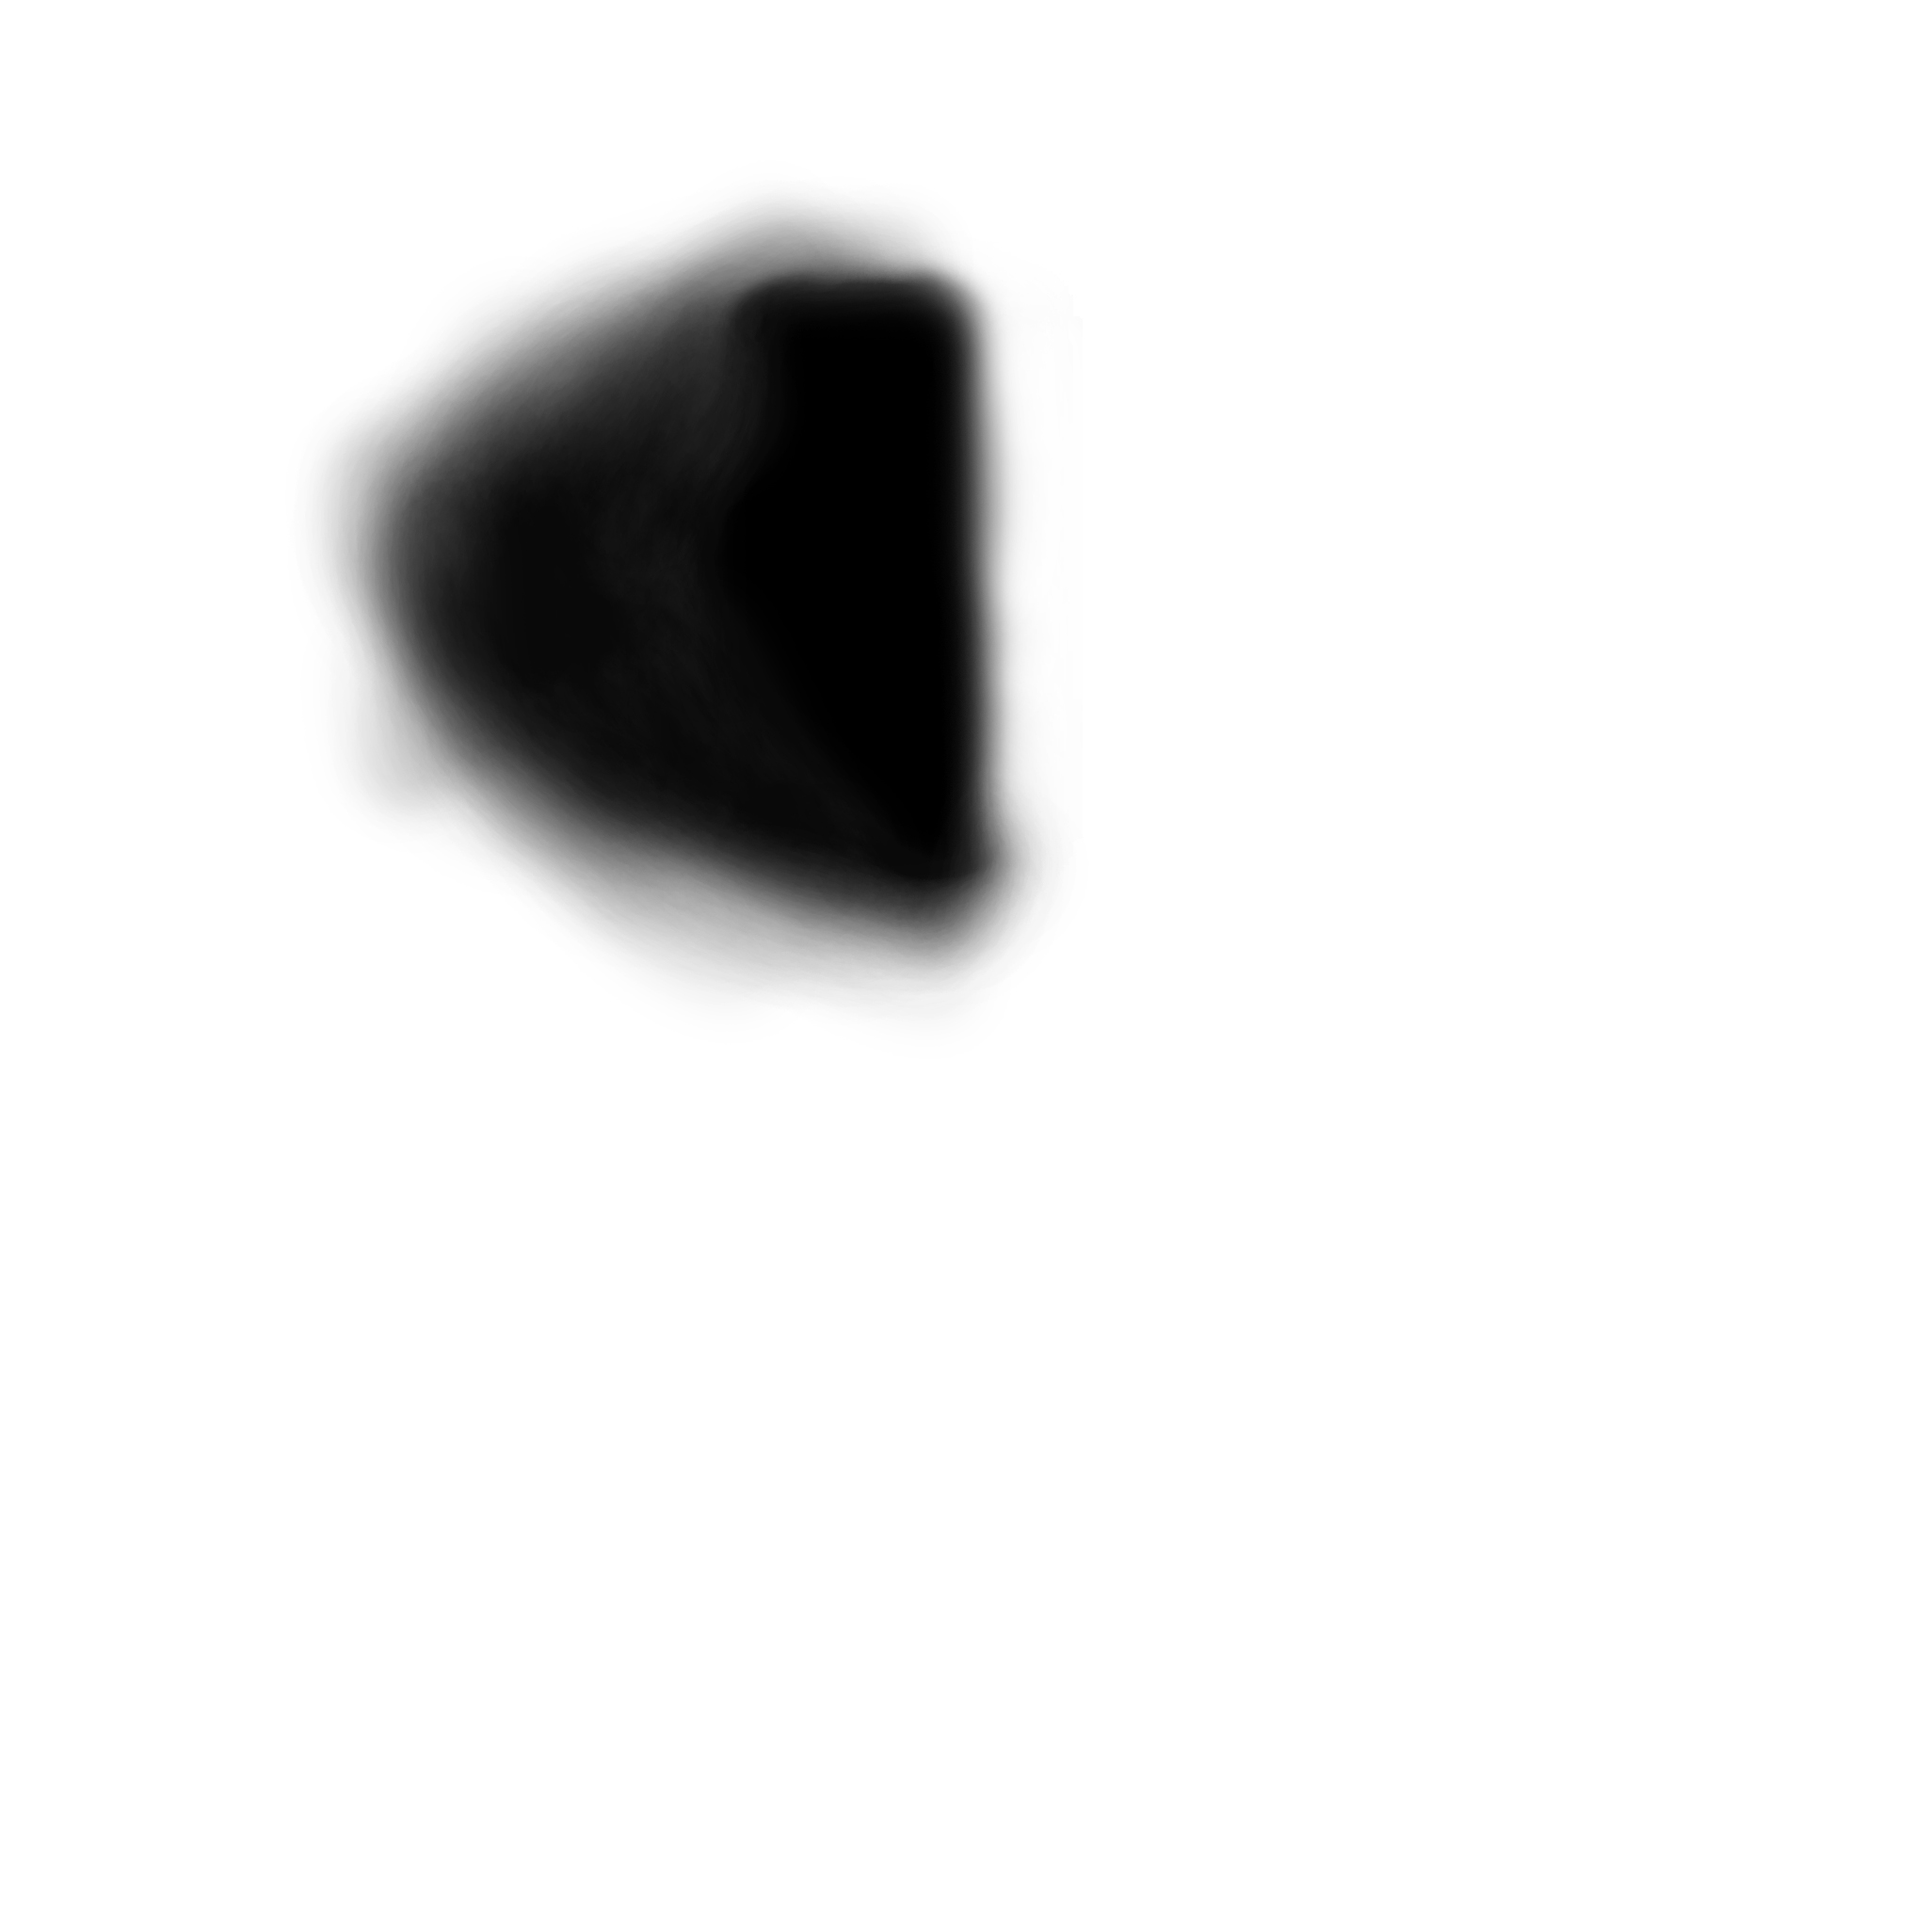
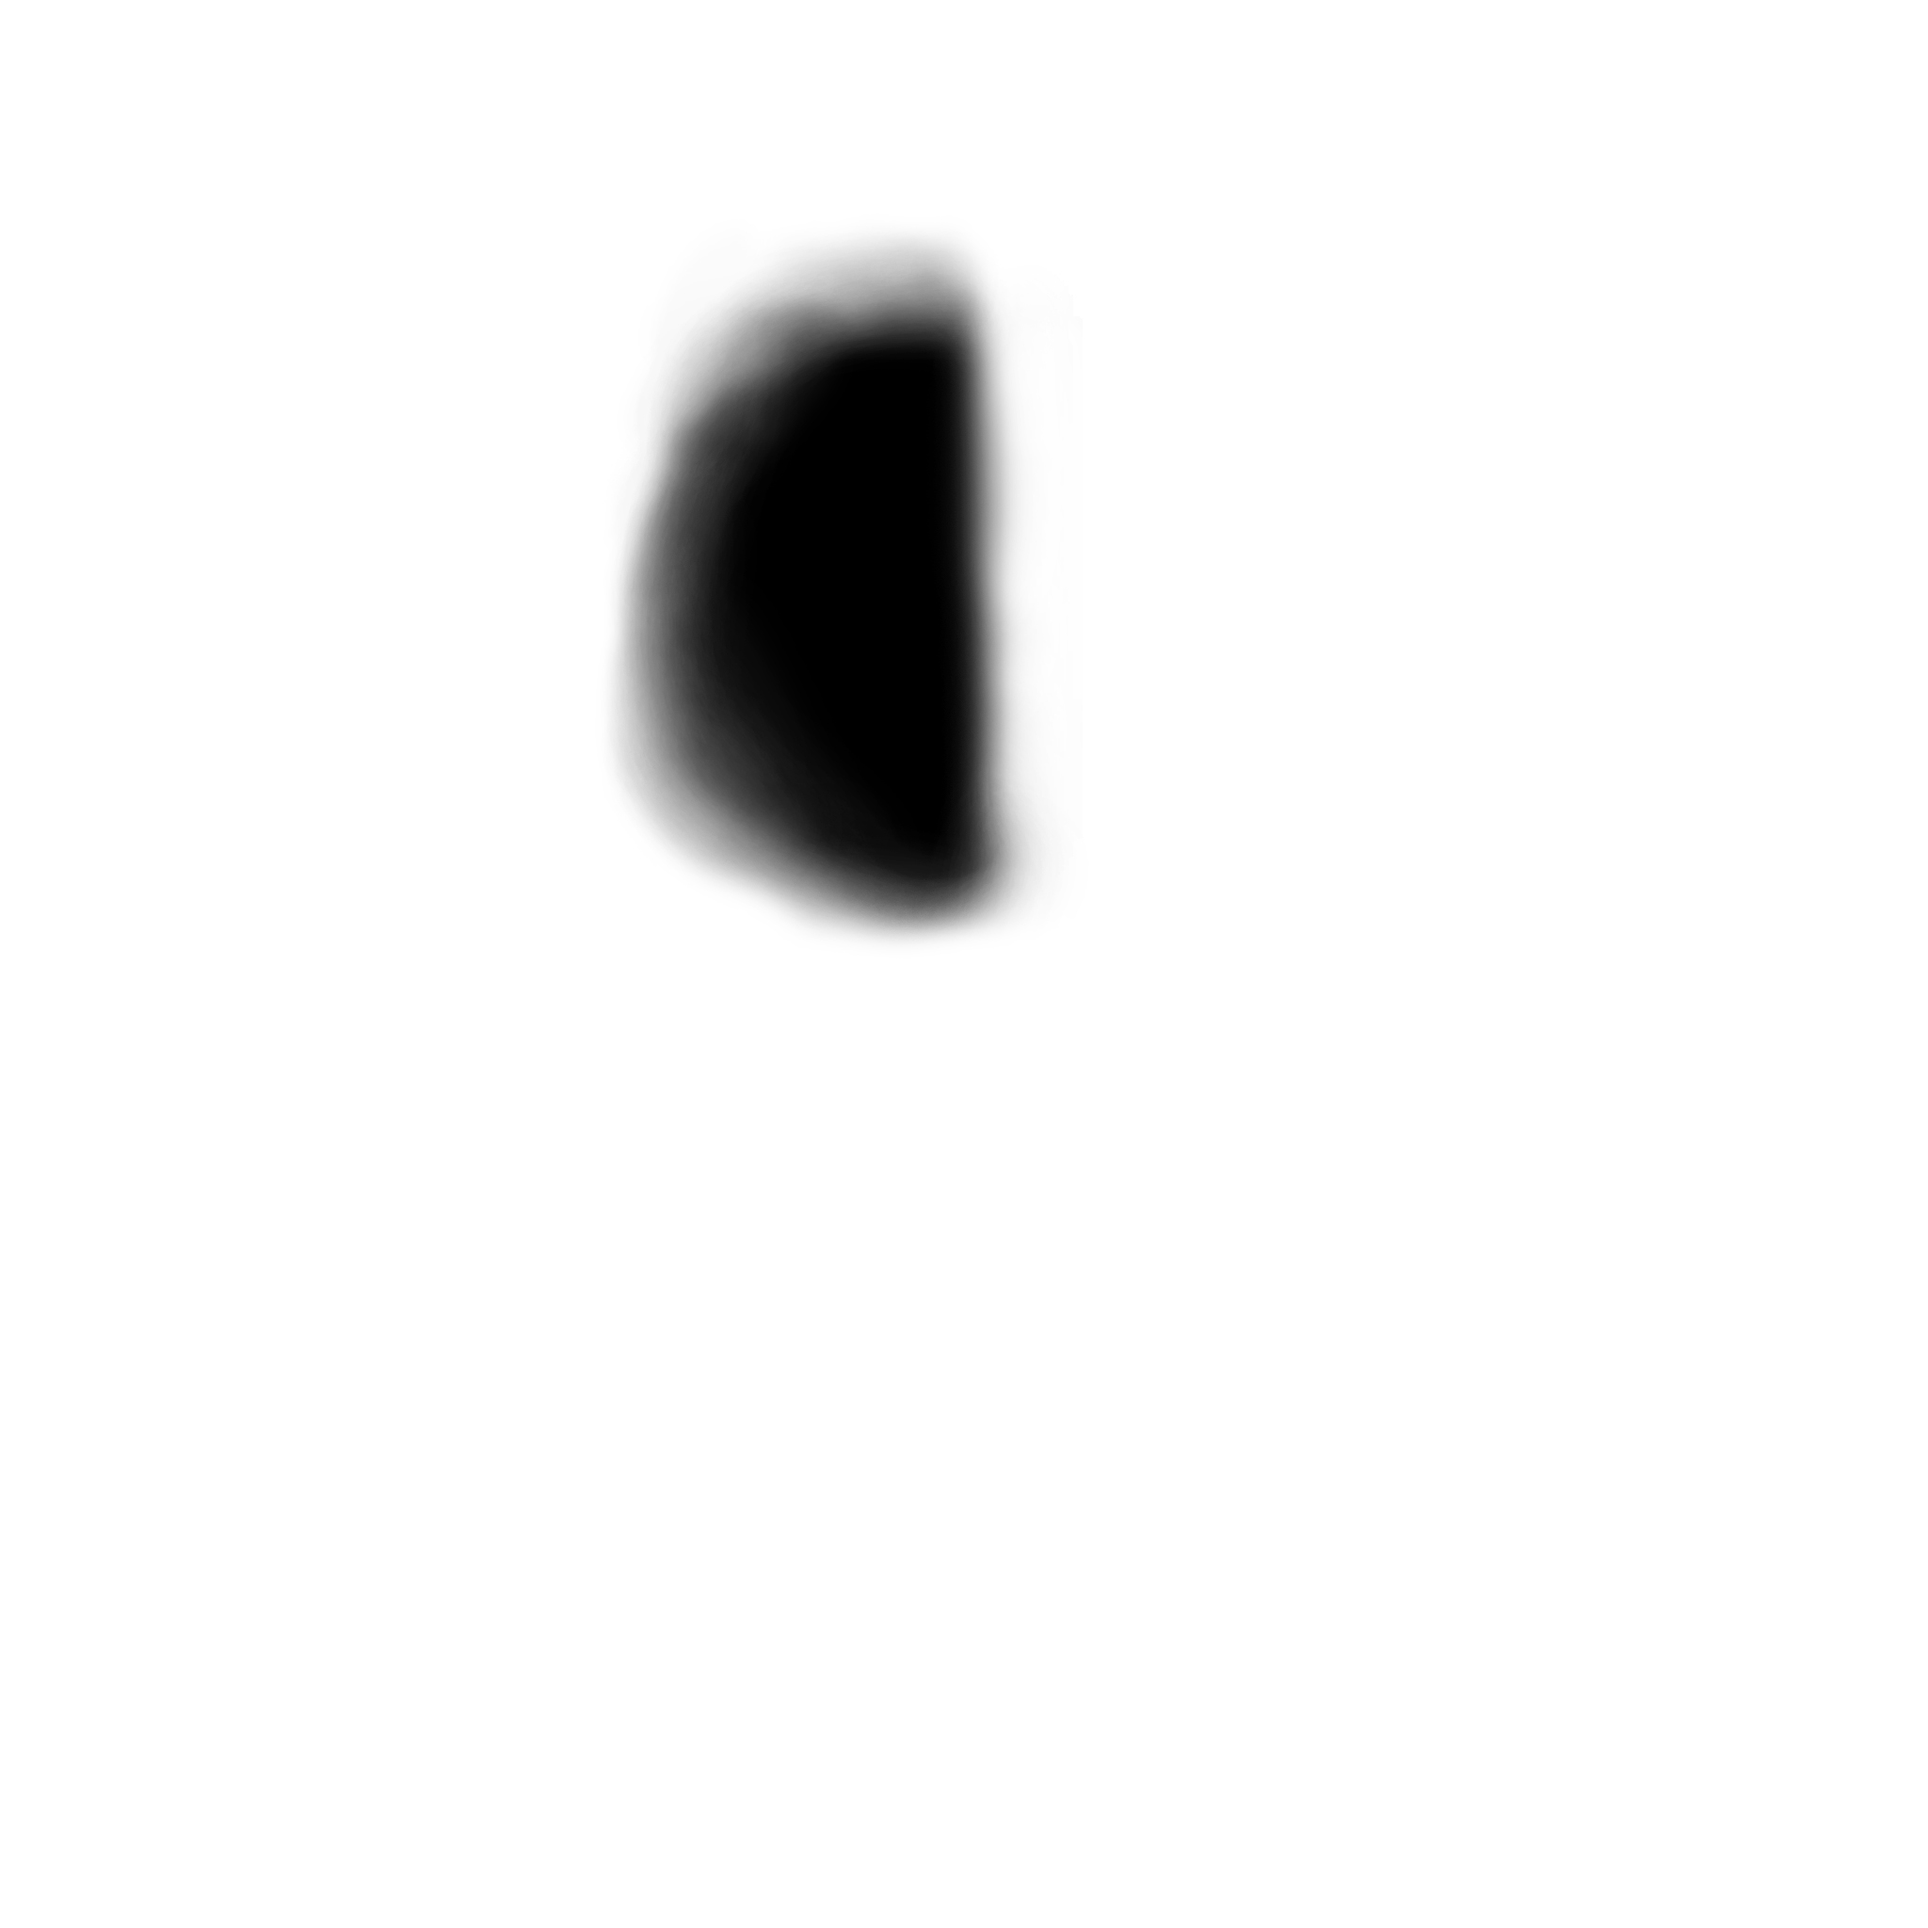
fix mask and color

Changed region(s): [[0.1562, 0.0938, 0.5312, 0.5312]]

diff --git a/nativeproj/facecloud/facecloud/Shared/FaceCloudLib.cpp b/nativeproj/facecloud/facecloud/Shared/FaceCloudLib.cpp
@@ -339,6 +339,17 @@ string FaceCloudLib::CalculateReal(string modelID, string photoPath, string json
 			isman = false;
 		}
 
+		if (isman)
+		{
+			m_targetcolor = cv::Vec3s(210, 165, 120);
+			m_basecolor = cv::Vec3s(210, 165, 120);
+		}
+		else
+		{
+			m_targetcolor = cv::Vec3s(200, 169, 140);
+			m_basecolor = cv::Vec3s(200, 169, 140);
+		}
+
 		JsonFaceInfo jsonfaceinfo;
 		if (jsonfaceinfo.LoadFromString(jsonFace, true))
 		{
@@ -982,10 +993,10 @@ float getvalue(cv::Vec3s rgb) {
 	return value;
 }
 
-void getMean(Mat img, cv::Vec3s& left , cv::Vec3s& right)
+void FaceCloudLib::getMean(Mat img, cv::Vec3s& left, cv::Vec3s& right)
 {
-	cv::Vec3s targetcolor(200, 169, 140);
-	cv::Vec3s basecolor(205, 175, 142);
+
+
 
 	int n = 0;
 	int m = 0;
@@ -1034,16 +1045,10 @@ void getMean(Mat img, cv::Vec3s& left , cv::Vec3s& right)
 	cv::Vec3s meancolorvalue_right(mix_r_right / m, mix_g_right / m, mix_b_right / m);
 
 
-	cv::Vec3s offset_left = targetcolor - meancolorvalue_left;
-	cv::Vec3s outcolor_left = offset_left + cv::Vec3s(255, 255, 255) / 2;
 
 
-	cv::Vec3s offset_right = targetcolor - meancolorvalue_right;
-	cv::Vec3s outcolor_right = offset_right + cv::Vec3s(255, 255, 255) / 2;
-
-
-	left = outcolor_left;
-	right = outcolor_right;
+	left = meancolorvalue_left;
+	right = meancolorvalue_right;
 }
 
 cv::Vec3s lerp(cv::Vec3f start, cv::Vec3f end, cv::Vec3f rate)
@@ -1102,8 +1107,8 @@ void FaceCloudLib::CombineTextureMaskBlend(Mat bgColor, Texture* pforeColor, str
 	_SampleButtom_RT_mask.convertTo(_SampleButtom_RT_mask, CV_16UC3);
 
 
-	//cv::cvtColor(foreColorMat, bgr, CV_RGBA2BGR);
-	//cv::imwrite("data/export/stepn1Mat.jpg", bgr);
+	/*cv::cvtColor(foreColorMat, bgr, CV_RGBA2BGR);
+	cv::imwrite("data/export/stepn1Mat.jpg", bgr);*/
 	//Step 0
 	Mat step0Mat;
 	foreColorMat.copyTo(step0Mat);
@@ -1136,6 +1141,12 @@ void FaceCloudLib::CombineTextureMaskBlend(Mat bgColor, Texture* pforeColor, str
 	cv::Vec3s outcolor_left, outcolor_right;
 	getMean(step0Mat, outcolor_left, outcolor_right);
 
+	cv::Vec3s offset_left = m_targetcolor - outcolor_left;
+	outcolor_left = offset_left + cv::Vec3s(255, 255, 255) / 2;
+
+
+	cv::Vec3s offset_right = m_targetcolor - outcolor_right;
+	outcolor_right = offset_right + cv::Vec3s(255, 255, 255) / 2;
 
 	//step1
 	Mat step1Mat;
@@ -1165,17 +1176,25 @@ void FaceCloudLib::CombineTextureMaskBlend(Mat bgColor, Texture* pforeColor, str
 	//cv::cvtColor(step1Mat, bgr, CV_RGBA2BGR);
 	//cv::imwrite("data/export/step1Mat.jpg", bgr);
 
-	//cv::cvtColor(_Facemap_left_Mask, bgr, CV_RGBA2BGR);
-	//cv::imwrite("data/export/_Facemap_left_Mask.jpg", bgr);
-	//cv::cvtColor(_Facemap_right_Mask, bgr, CV_RGBA2BGR);
-	//cv::imwrite("data/export/_Facemap_right_Mask.jpg", bgr);
-	//cv::cvtColor(_BG_left_Mask, bgr, CV_RGBA2BGR);
-	//cv::imwrite("data/export/_BG_left_Mask.jpg", bgr);
-	//cv::cvtColor(_BG_right_Mask, bgr, CV_RGBA2BGR);
-	//cv::imwrite("data/export/_BG_right_Mask.jpg", bgr);
+	/*cv::cvtColor(_Facemap_left_Mask, bgr, CV_RGBA2BGR);
+	cv::imwrite("data/export/_Facemap_left_Mask.jpg", bgr);
+	cv::cvtColor(_Facemap_right_Mask, bgr, CV_RGBA2BGR);
+	cv::imwrite("data/export/_Facemap_right_Mask.jpg", bgr);
+	cv::cvtColor(_BG_left_Mask, bgr, CV_RGBA2BGR);
+	cv::imwrite("data/export/_BG_left_Mask.jpg", bgr);
+	cv::cvtColor(_BG_right_Mask, bgr, CV_RGBA2BGR);
+	cv::imwrite("data/export/_BG_right_Mask.jpg", bgr);*/
 
 	cv::Vec3s outcolorbg_left, outcolorbg_right;
 	getMean(step1Mat, outcolorbg_left, outcolorbg_right);
+
+
+	cv::Vec3s offsetbg_left = outcolorbg_left - m_basecolor;
+	outcolorbg_left = offsetbg_left + cv::Vec3s(255, 255, 255) / 2;
+
+
+	cv::Vec3s offsetbg_right = outcolorbg_right - m_basecolor;
+	outcolorbg_right = offsetbg_right + cv::Vec3s(255, 255, 255) / 2;
 
 	//step2
 	Mat step2Mat;
@@ -1206,7 +1225,10 @@ void FaceCloudLib::CombineTextureMaskBlend(Mat bgColor, Texture* pforeColor, str
 			Vec3s _FACE_Mrg_left = lerp(_Facemap_left_col, _BG_Mrgf, _Facemap_left_Mask_var);
 			Vec3s _FACE_Mrg = lerp(_Facemap_right_col, _FACE_Mrg_left, _Facemap_right_Mask_var);
 
-
+			if (_FACE_Mrg[0] == 0 && _FACE_Mrg[1] == 0 && _FACE_Mrg[2] == 0)
+			{
+				int xxx = 0;
+			}
 
 			step2Mat.at<cv::Vec3s>(j, i) = _FACE_Mrg;
 		}
@@ -1216,23 +1238,23 @@ void FaceCloudLib::CombineTextureMaskBlend(Mat bgColor, Texture* pforeColor, str
 
 
 
-	////测试全图
-	//for (int j = 0; j < bgfull.rows; j++)
-	//{
-	//	for (int i = 0; i < bgfull.cols; i++)
-	//	{
+	//测试全图
+	for (int j = 0; j < bgfull.rows; j++)
+	{
+		for (int i = 0; i < bgfull.cols; i++)
+		{
 
-	//		if (i >= colRg.start && i < colRg.end && j >= rowRg.start &&j < rowRg.end)
-	//		{
-	//			cv::Vec3s f = step2Mat.at<cv::Vec3s>(j - rowRg.start, i - colRg.start);
-	//			bgfull.at<cv::Vec4s>(j, i) = cv::Vec4s(f[0],f[1],f[2],255);
+			if (i >= colRg.start && i < colRg.end && j >= rowRg.start &&j < rowRg.end)
+			{
+				cv::Vec3s f = step2Mat.at<cv::Vec3s>(j - rowRg.start, i - colRg.start);
+				bgfull.at<cv::Vec4s>(j, i) = cv::Vec4s(f[0],f[1],f[2],255);
 
-	//		}
+			}
 
-	//	}
-	//}
-	//cv::cvtColor(bgfull, bgr, CV_RGBA2BGR);
-	//cv::imwrite("data/export/bgfull.jpg", bgr);
+		}
+	}
+	cv::cvtColor(bgfull, bgr, CV_RGBA2BGR);
+	cv::imwrite("data/export/bgfull.jpg", bgr);
 
 	//保存成文件
 	SaveTextureToFile(step2Mat, GL_RGBA, photoPathOut, false);
@@ -1349,6 +1371,9 @@ bool FaceCloudLib::InitMat()
 	_sampling_RT_mask = cv::imread(RES_PATH + "facecloud/samplface_RT.jpg");
 	_SampleButtom_LF_mask = cv::imread(RES_PATH + "facecloud/samplbuttom_LF.jpg");
 	_SampleButtom_RT_mask = cv::imread(RES_PATH + "facecloud/samplbuttom_RT.jpg");
+
+
+
 
 	return true;
 }

diff --git a/nativeproj/facecloud/facecloud/Shared/FaceCloudLib.h b/nativeproj/facecloud/facecloud/Shared/FaceCloudLib.h
@@ -129,6 +129,9 @@ private:
 	cv::Mat _sampling_RT_mask;
 	cv::Mat _SampleButtom_LF_mask;
 	cv::Mat _SampleButtom_RT_mask;
+	cv::Vec3s m_targetcolor;
+	cv::Vec3s m_basecolor;
+
 
 	bool InitCamera();
 	bool InitMesh();
@@ -142,6 +145,7 @@ private:
 
 	cv::Mat AutoMask(cv::Mat srcMask,cv::Point& center);
 
+	void getMean(cv::Mat img, cv::Vec3s& left, cv::Vec3s& right);
 
 public:
       std::thread m_OpenGLThread;
